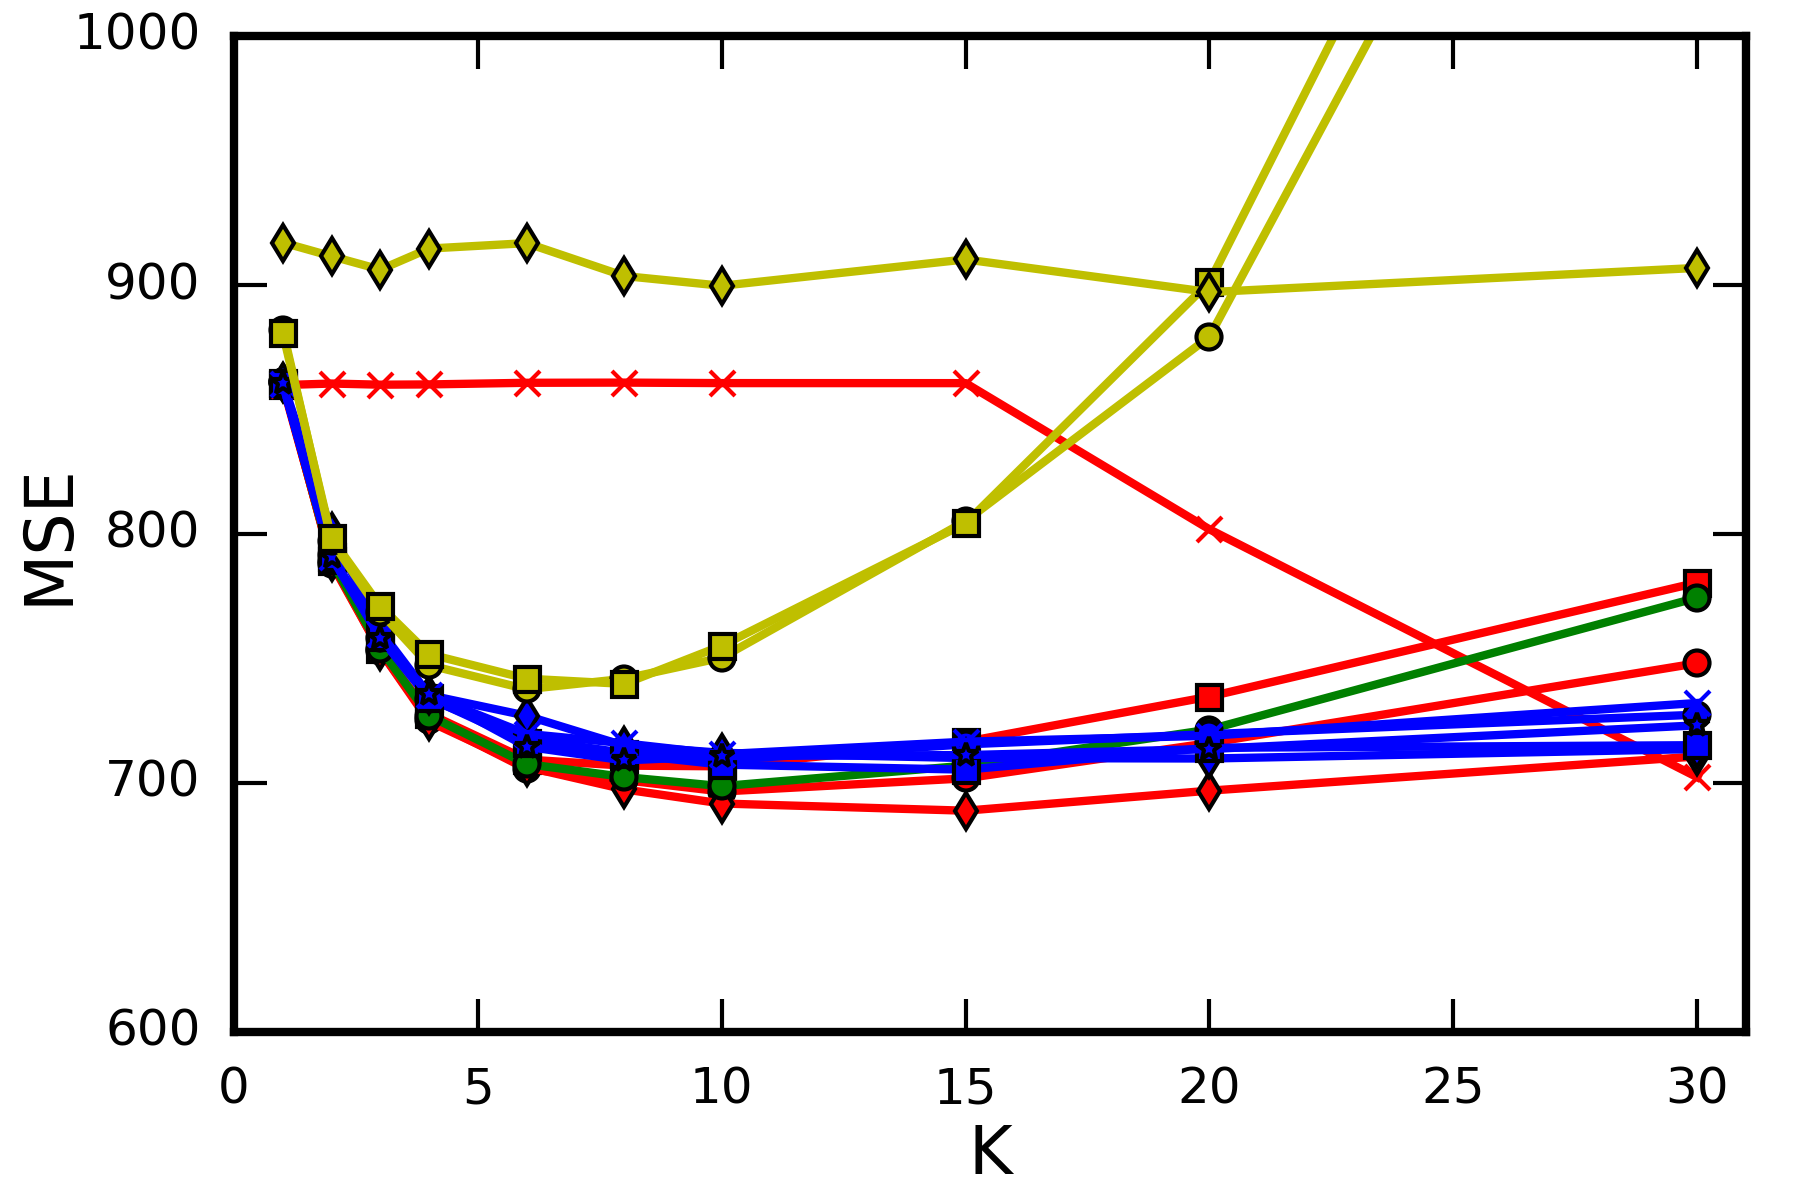
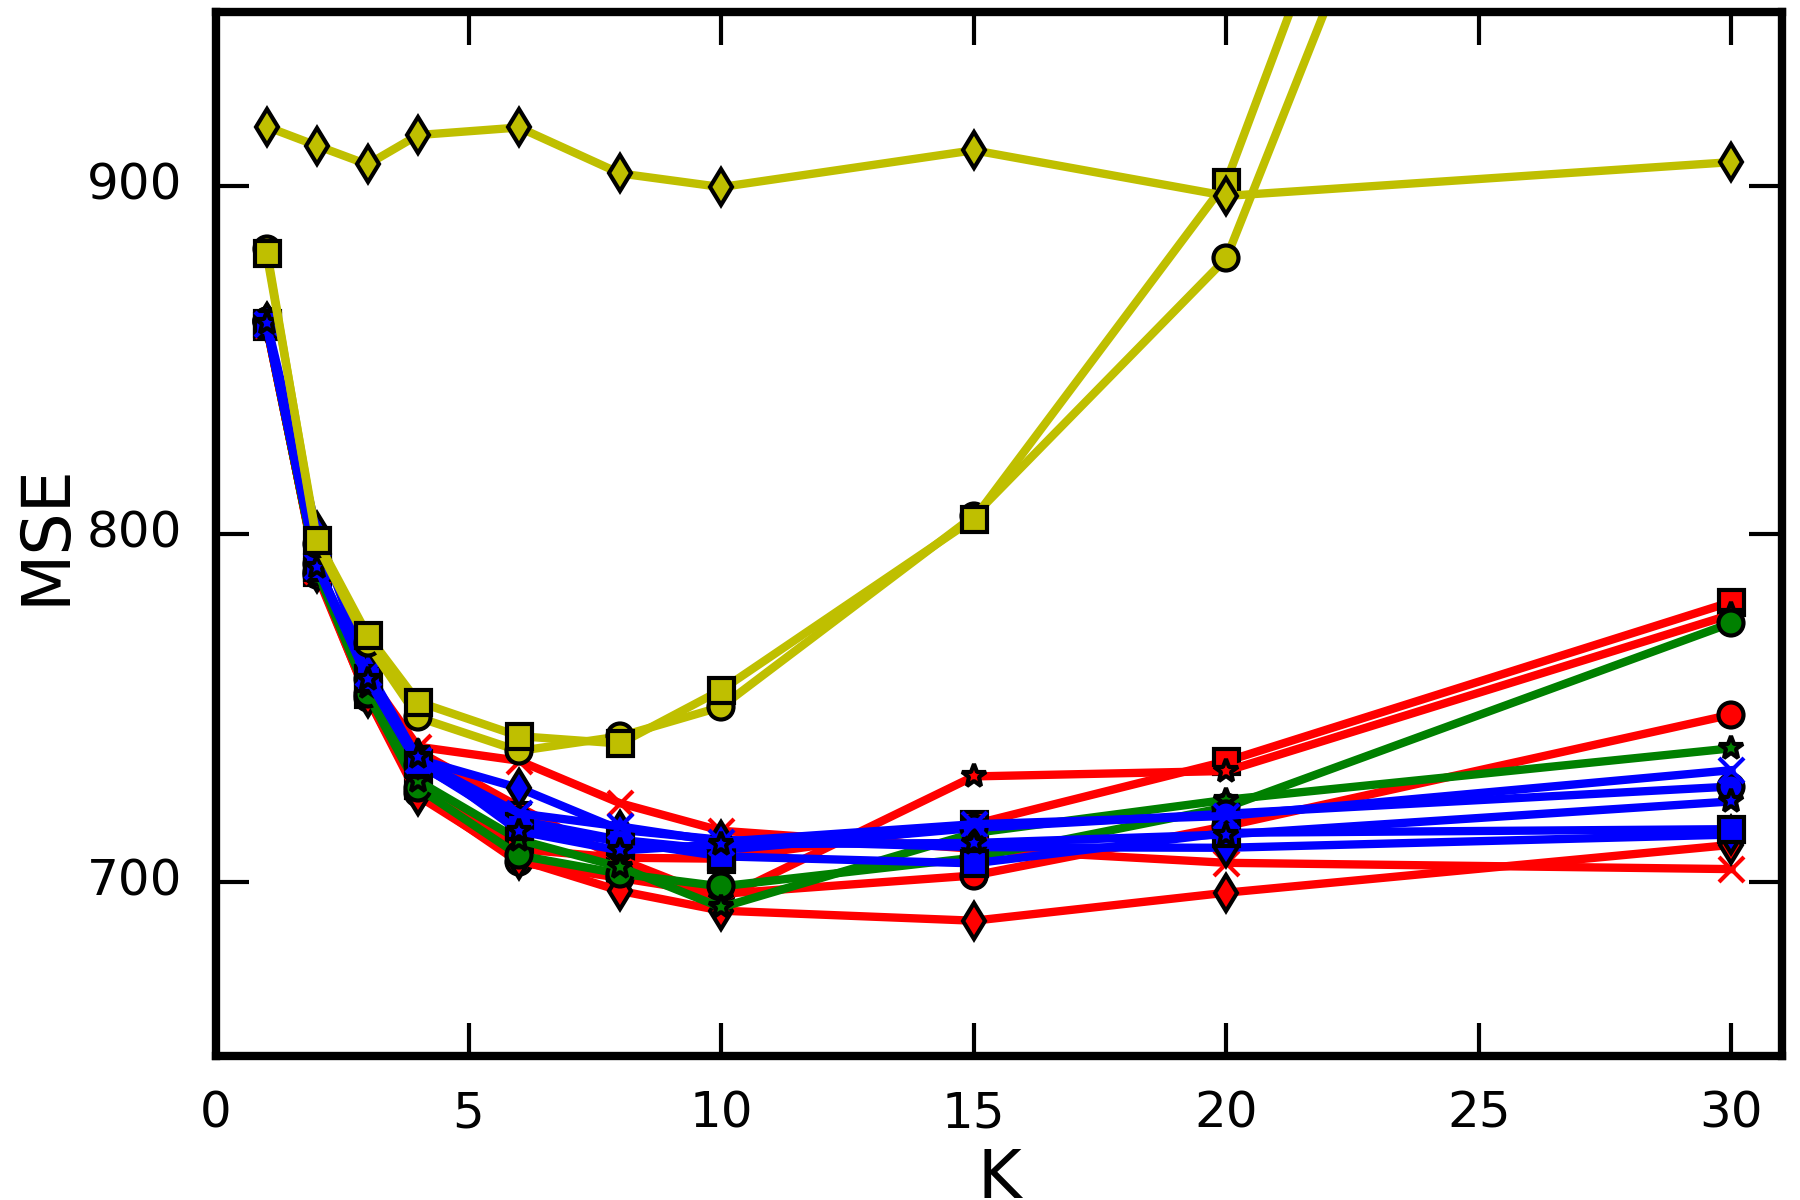
Reran VP model experiments.

diff --git a/experiments/model_selection/drug_sensitivity_gdsc/plots/plot_model_selection.py b/experiments/model_selection/drug_sensitivity_gdsc/plots/plot_model_selection.py
@@ -7,7 +7,7 @@ import numpy
 
 
 ''' Plot settings. '''
-MSE_min, MSE_max = 600, 1000
+MSE_min, MSE_max = 650, 950
 values_K = [1,2,3,4,6,8,10,15,20,30]
 
 folder_plots = "./"
@@ -21,8 +21,8 @@ ggg = eval(open(folder_results+'performances_gaussian_gaussian.txt','r').read())
 gggu = eval(open(folder_results+'performances_gaussian_gaussian_univariate.txt','r').read())
 gggw = eval(open(folder_results+'performances_gaussian_gaussian_wishart.txt','r').read())
 ggga = eval(open(folder_results+'performances_gaussian_gaussian_ard.txt','r').read())
-#gvg = eval(open(folder_results+'performances_gaussian_gaussian_volumeprior.txt','r').read())
-#gvng = eval(open(folder_results+'performances_gaussian_gaussian_volumeprior_nonnegative.txt','r').read())
+gvg = eval(open(folder_results+'performances_gaussian_gaussian_volumeprior.txt','r').read())
+gvng = eval(open(folder_results+'performances_gaussian_gaussian_volumeprior_nonnegative.txt','r').read())
 geg = eval(open(folder_results+'performances_gaussian_gaussian_exponential.txt','r').read())
 gee = eval(open(folder_results+'performances_gaussian_exponential.txt','r').read())
 geea = eval(open(folder_results+'performances_gaussian_exponential_ard.txt','r').read())
@@ -38,7 +38,9 @@ performances_names_colours_linestyles_markers = [
     (gggu, 'GGGU', 'r', '-', 's'),
     (gggw, 'GGGW', 'r', '-', 'x'),
     (ggga, 'GGGA', 'r', '-', 'd'),
+    (gvg,  'GVG',  'r', '-', '*'),
     (geg,  'GEG',  'g', '-', 'o'),
+    (gvng, 'GVnG', 'g', '-', '*'),
     (gee,  'GEE',  'b', '-', 'o'),
     (geea, 'GEEA', 'b', '-', 'd'),
     (gtt,  'GTT',  'b', '-', 's'),
@@ -52,9 +54,9 @@ performances_names_colours_linestyles_markers = [
 
 ''' Plot the performances. '''
 fig = plt.figure(figsize=(3,2))
-fig.subplots_adjust(left=0.13, right=0.97, bottom=0.14, top=0.97)
+fig.subplots_adjust(left=0.12, right=0.99, bottom=0.12, top=0.99)
 plt.xlabel("K", fontsize=8, labelpad=1)
-plt.ylabel("MSE", fontsize=8, labelpad=-1)
+plt.ylabel("MSE", fontsize=8, labelpad=1)
 
 x = values_K
 for performances, name, colour, linestyle, marker in performances_names_colours_linestyles_markers:
@@ -70,9 +72,9 @@ plt.savefig(plot_file, dpi=600)
 
 
 ''' Set up the legend outside. '''
-font_size_legend, number_of_columns, legend_box_line_width, legend_line_width = 12, 7, 1, 1
+font_size_legend, number_of_columns, legend_box_line_width, legend_line_width = 12, 5, 1, 1
 ax = fig.add_subplot(111)
-legend_fig = plt.figure(figsize=(8.7,0.6))
+legend_fig = plt.figure(figsize=(6.4,0.9))
 legend = legend_fig.legend(*ax.get_legend_handles_labels(), loc='center', prop={'size':font_size_legend}, ncol=number_of_columns)
 legend.get_frame().set_linewidth(legend_box_line_width)
 plt.setp(legend.get_lines(),linewidth=legend_line_width)

diff --git a/experiments/parameter_exploration/gamma_volumeprior/explore_gamma_gaussian_gaussian_volumeprior.py b/experiments/parameter_exploration/gamma_volumeprior/explore_gamma_gaussian_gaussian_volumeprior.py
@@ -67,31 +67,34 @@ def explore_gamma(n_folds, values_gamma_K, model_class, settings, fout=None):
     return (average_performances)
         
 
-''' Run the experiment for the Gaussian + Gaussian + VP model. '''
-R, M = load_gdsc_ic50_integer()
-model_class = BMF_Gaussian_Gaussian_VolumePrior
-n_folds = 5
-values_gamma = [10**-60, 10**-55, 10**-50, 10**-45, 10**-40, 10**-35, 10**-30] #[10**-25, 10**-20, 10**-15, 10**-10, 10**-5, 10**0
-values_K = [5]
-values_gamma_K = list(itertools.product(values_gamma, values_K))
-settings = {
-    'R': R, 
-    'M': M, 
-    'hyperparameters': { 'alpha':1., 'beta':1., 'lamb':0.1 }, 
-    'init': 'random', 
-    'iterations': 100,
-    'burn_in': 80,
-    'thinning': 2,
-}
-fout = './performances_gaussian_gaussian_volumeprior_2.txt'
-average_performances = explore_gamma(
-    n_folds=n_folds, values_gamma_K=values_gamma_K, model_class=model_class, settings=settings, fout=fout)
-
-
-''' Plot the performances. '''
-plt.figure()
-plt.ylim(600,1000)
-plt.title("gamma exploration performances")
-for K in values_K:
-    performances = [perf for perf,(gamma,Kp) in zip(average_performances['MSE'],values_gamma_K) if Kp == K]
-    plt.semilogx(values_gamma, performances, label=K)
+if __name__ == '__main__':
+    ''' Run the experiment for the Gaussian + Gaussian + VP model. '''
+    R, M = load_gdsc_ic50_integer()
+    model_class = BMF_Gaussian_Gaussian_VolumePrior
+    n_folds = 5
+    values_gamma = [10**-40, 10**-35, 10**-30, 10**-25, 10**-20, 10**-15, 10**-10, 10**-5, 10**0, 10**5]
+    values_K = [5, 10] #, 15]
+    values_gamma_K = list(itertools.product(values_gamma, values_K))
+    settings = {
+        'R': R, 
+        'M': M, 
+        'hyperparameters': { 'alpha':1., 'beta':1., 'lamb':0.1 }, 
+        'init': 'random', 
+        'iterations': 100,
+        'burn_in': 90,
+        'thinning': 1,
+    }
+    fout = './performances_gaussian_gaussian_volumeprior.txt'
+    average_performances = explore_gamma(
+        n_folds=n_folds, values_gamma_K=values_gamma_K, model_class=model_class, settings=settings, fout=fout)
+    
+    
+    ''' Plot the performances. '''
+    plt.figure()
+    plt.ylim(600,1000)
+    plt.title("gamma exploration performances")
+    for K in values_K:
+        performances = [perf for perf,(gamma,Kp) in zip(average_performances['MSE'],values_gamma_K) if Kp == K]
+        plt.semilogx(values_gamma, performances, label=K)
+        plt.legend(loc=2)
+        plt.savefig('gaussian_gaussian_volumeprior.png')

diff --git a/experiments/parameter_exploration/gamma_volumeprior/explore_gamma_gaussian_gaussian_volumeprior_nonnegative.py b/experiments/parameter_exploration/gamma_volumeprior/explore_gamma_gaussian_gaussian_volumeprior_nonnegative.py
@@ -19,8 +19,8 @@ import matplotlib.pyplot as plt
 R, M = load_gdsc_ic50_integer()
 model_class = BMF_Gaussian_Gaussian_VolumePrior_nonnegative
 n_folds = 5
-values_gamma = [10**-60, 10**-55, 10**-50, 10**-45, 10**-40, 10**-35, 10**-30] # [10**-25, 10**-20, 10**-15, 10**-10, 10**-5, 10**0] 
-values_K = [5]
+values_gamma = [10**-40, 10**-35, 10**-30, 10**-25, 10**-20, 10**-15, 10**-10, 10**-5, 10**0, 10**5] 
+values_K = [5, 10] #, 15]
 values_gamma_K = list(itertools.product(values_gamma, values_K))
 settings = {
     'R': R, 
@@ -28,10 +28,10 @@ settings = {
     'hyperparameters': { 'alpha':1., 'beta':1., 'lamb':0.1 }, 
     'init': 'random', 
     'iterations': 100,
-    'burn_in': 80,
-    'thinning': 2,
+    'burn_in': 90,
+    'thinning': 1,
 }
-fout = './performances_gaussian_gaussian_volumeprior_nonnegative_2.txt'
+fout = './performances_gaussian_gaussian_volumeprior_nonnegative.txt'
 average_performances = explore_gamma(
     n_folds=n_folds, values_gamma_K=values_gamma_K, model_class=model_class, settings=settings, fout=fout)
 
@@ -43,3 +43,5 @@ plt.title("gamma exploration performances")
 for K in values_K:
     performances = [perf for perf,(gamma,Kp) in zip(average_performances['MSE'],values_gamma_K) if Kp == K]
     plt.semilogx(values_gamma, performances, label=K)
+    plt.legend(loc=2)
+    plt.savefig('gaussian_gaussian_volumeprior_nonnegative.png')

diff --git a/experiments/model_selection/drug_sensitivity_gdsc/gaussian_gaussian_volumeprior_nonnegative.py b/experiments/model_selection/drug_sensitivity_gdsc/gaussian_gaussian_volumeprior_nonnegative.py
@@ -22,11 +22,11 @@ values_K = [1,2,3,4,6,8,10,15,20,30]
 settings = {
     'R': R, 
     'M': M, 
-    'hyperparameters': { 'alpha':1., 'beta':1., 'lamb':0.1, 'gamma':10**-50 }, 
+    'hyperparameters': { 'alpha':1., 'beta':1., 'lamb':0.1, 'gamma':10**-30 }, 
     'init': 'random', 
     'iterations': 100,
-    'burn_in': 80,
-    'thinning': 2,
+    'burn_in': 90,
+    'thinning': 1,
 }
 fout = './results/performances_gaussian_gaussian_volumeprior_nonnegative.txt'
 average_performances, all_performances = measure_model_selection(

diff --git a/experiments/model_selection/drug_sensitivity_gdsc/gaussian_gaussian_volumeprior.py b/experiments/model_selection/drug_sensitivity_gdsc/gaussian_gaussian_volumeprior.py
@@ -22,11 +22,11 @@ values_K = [1,2,3,4,6,8,10,15,20,30]
 settings = {
     'R': R, 
     'M': M, 
-    'hyperparameters': { 'alpha':1., 'beta':1., 'lamb':0.1, 'gamma':10**-50 }, 
+    'hyperparameters': { 'alpha':1., 'beta':1., 'lamb':0.1, 'gamma':10**-30 }, 
     'init': 'random', 
     'iterations': 100,
-    'burn_in': 80,
-    'thinning': 2,
+    'burn_in': 90,
+    'thinning': 1,
 }
 fout = './results/performances_gaussian_gaussian_volumeprior.txt'
 average_performances, all_performances = measure_model_selection(

diff --git a/experiments/runtime/drug_sensitivity_gdsc/gaussian_gaussian_volumeprior_nonnegative.py b/experiments/runtime/drug_sensitivity_gdsc/gaussian_gaussian_volumeprior_nonnegative.py
@@ -21,7 +21,7 @@ settings = {
     'M': M, 
     'hyperparameters': { 'alpha':1., 'beta':1., 'lamb':0.1, 'gamma':10**-50 }, 
     'init': 'random', 
-    'iterations': 100,
+    'iterations': 10,
 }
 fout = './results/times_gaussian_gaussian_volumeprior_nonnegative.txt'
 

diff --git a/experiments/runtime/drug_sensitivity_gdsc/gaussian_gaussian_volumeprior.py b/experiments/runtime/drug_sensitivity_gdsc/gaussian_gaussian_volumeprior.py
@@ -21,7 +21,7 @@ settings = {
     'M': M, 
     'hyperparameters': { 'alpha':1., 'beta':1., 'lamb':0.1, 'gamma':10**-50 }, 
     'init': 'random', 
-    'iterations': 100,
+    'iterations': 10,
 }
 fout = './results/times_gaussian_gaussian_volumeprior.txt'
 
